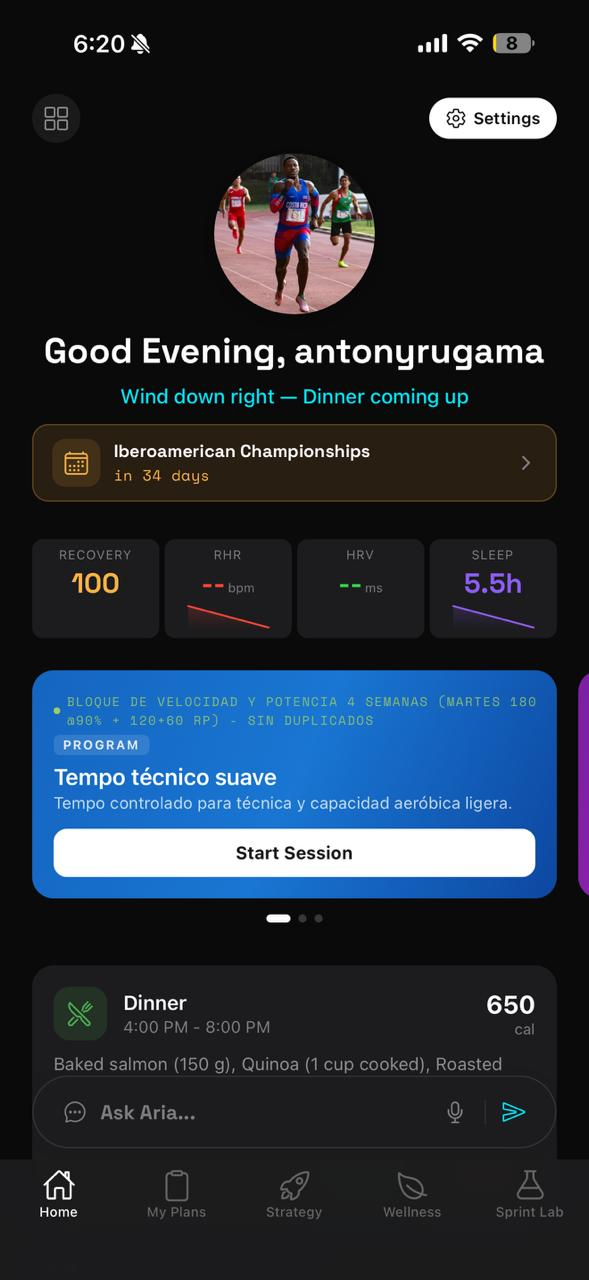
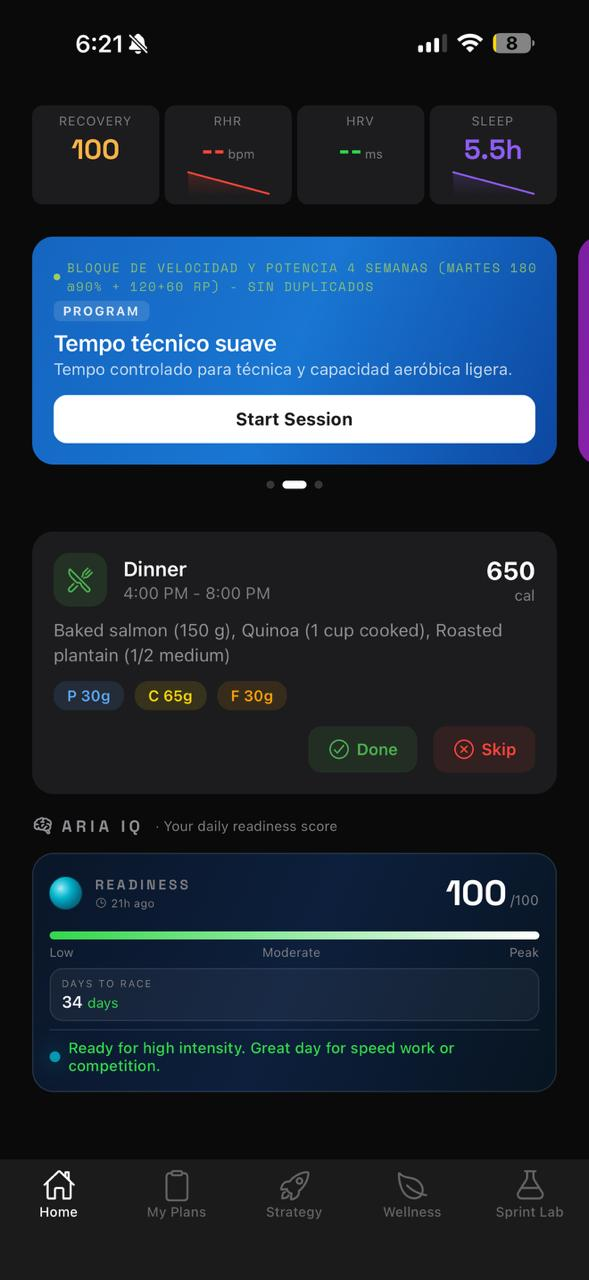
Swap hero screenshot to Aria IQ readiness view
Replaces the greeting/profile-photo top of home with the scrolled
view showing Recovery 100, RHR/HRV/Sleep metrics, training program
card, nutrition (dinner 650 cal), and Aria IQ Readiness 100/100 with
the AI insight "Ready for high intensity" — a stronger marketing moment
with no personal username visible.

diff --git a/es/index.html b/es/index.html
@@ -478,7 +478,7 @@
             </div>
             <div class="hero-vis">
                 <div class="phone">
-                    <img src="../screenshots/home-dashboard.jpeg" alt="Aria AI Dashboard — Pantalla de Inicio" style="width:100%;height:100%;object-fit:cover;object-position:top">
+                    <img src="../screenshots/home-dashboard.jpeg" alt="Aria AI Dashboard — Pantalla de Inicio" style="width:100%;height:100%;object-fit:cover;object-position:top center">
                 </div>
             </div>
         </div>

diff --git a/index.html b/index.html
@@ -478,7 +478,7 @@
             </div>
             <div class="hero-vis">
                 <div class="phone">
-                    <img src="screenshots/home-dashboard.jpeg" alt="Aria AI Dashboard — Home Screen" style="width:100%;height:100%;object-fit:cover;object-position:top">
+                    <img src="screenshots/home-dashboard.jpeg" alt="Aria AI Dashboard — Home Screen" style="width:100%;height:100%;object-fit:cover;object-position:top center">
                 </div>
             </div>
         </div>
